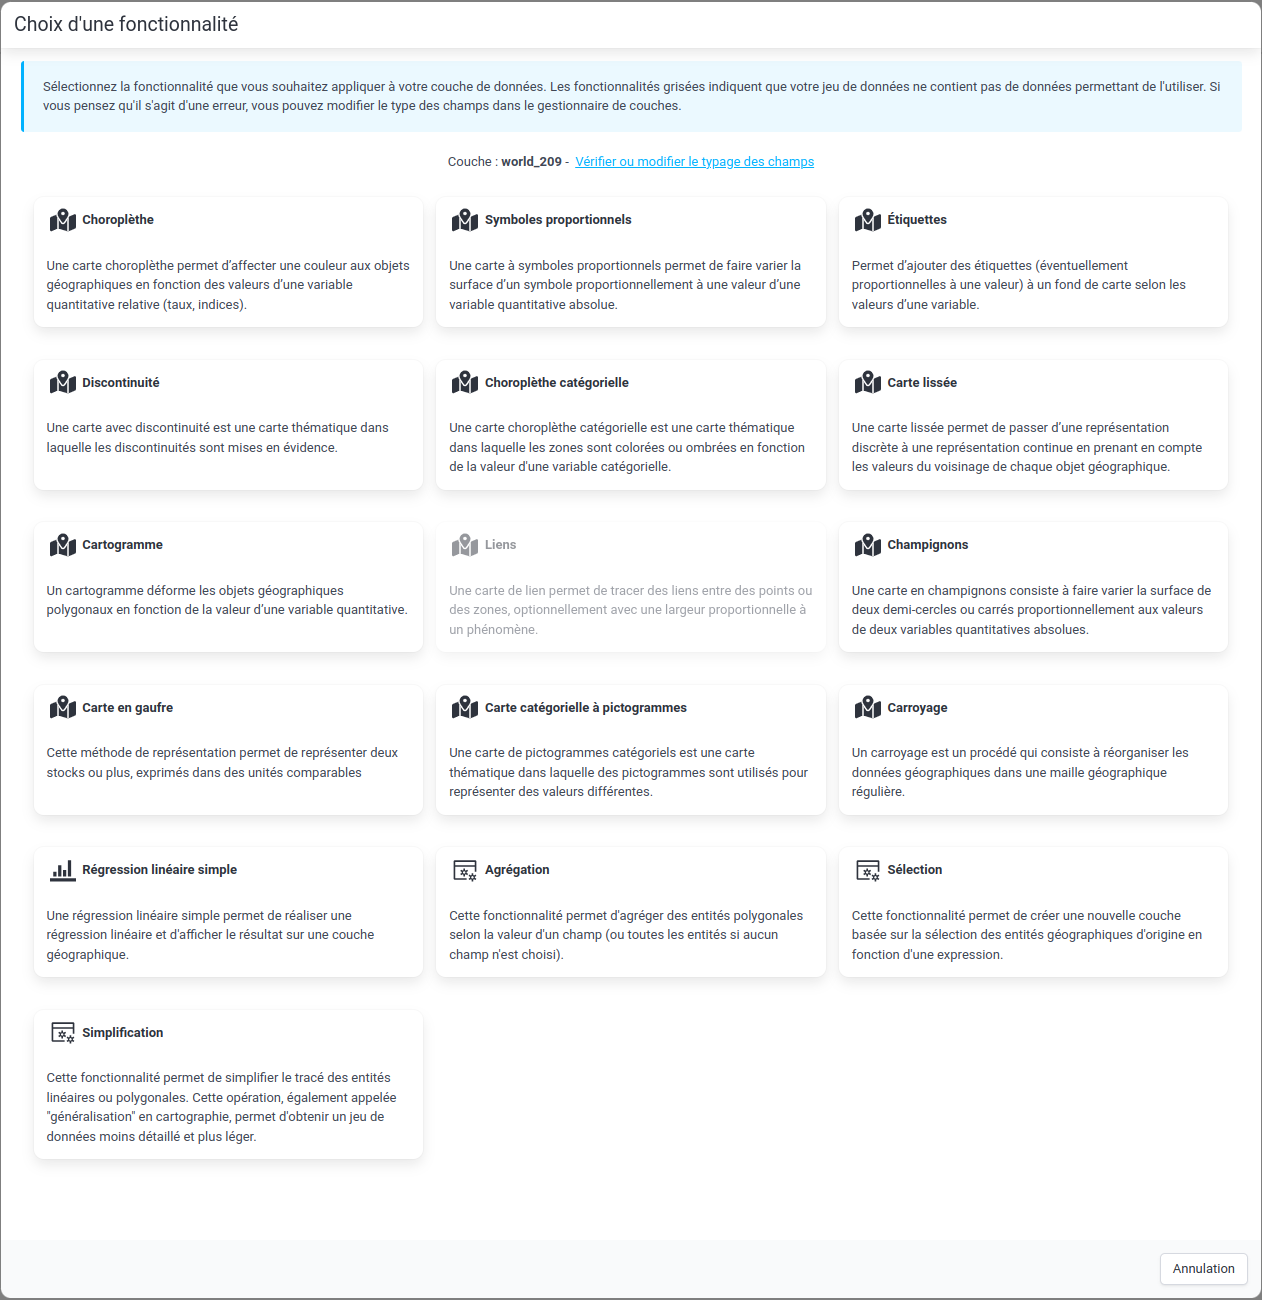
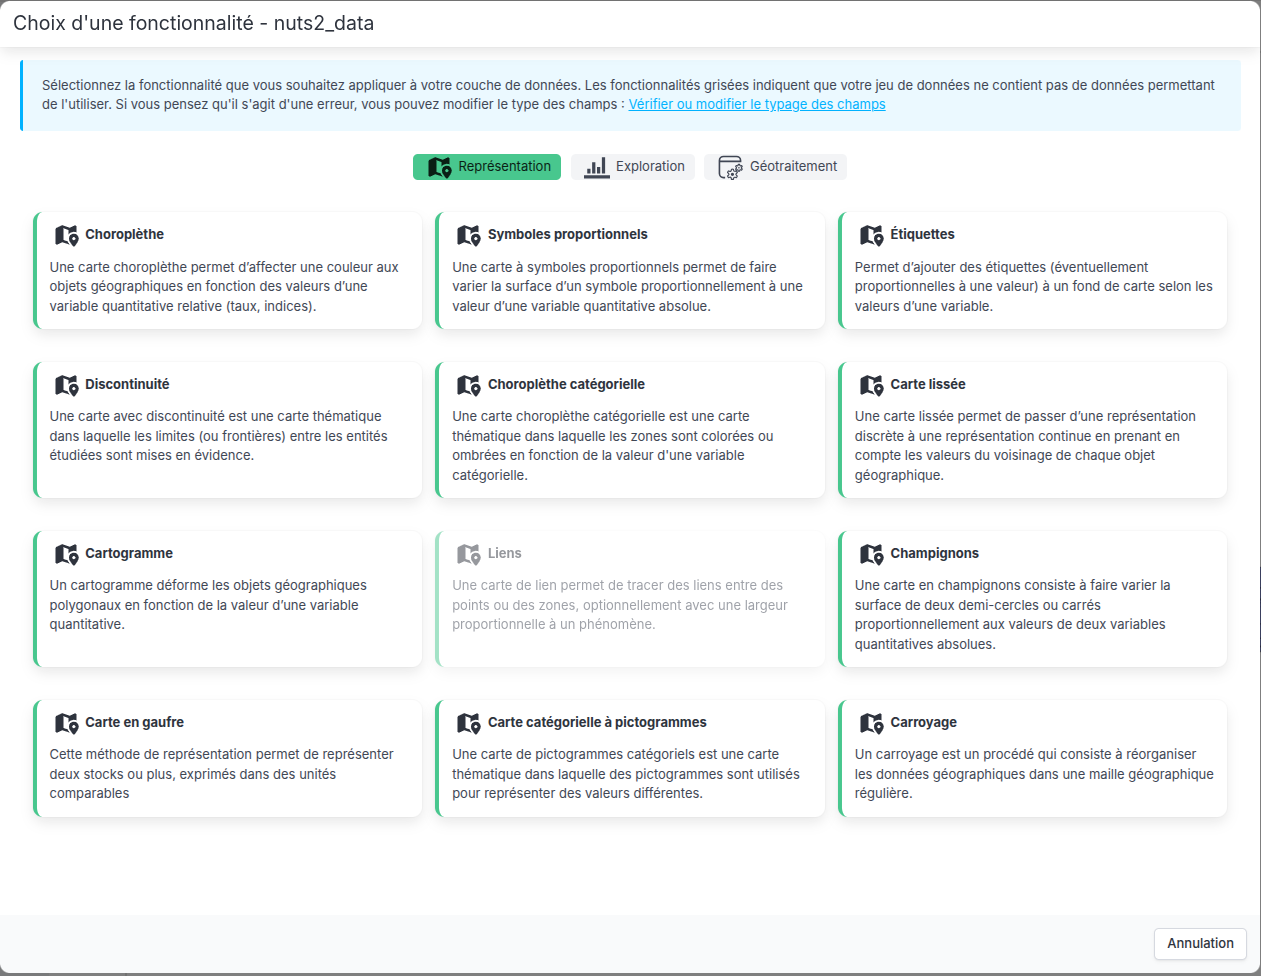
docs: add info about new classification of layer creation functionnalities

diff --git a/docs/en/layer-creation.md b/docs/en/layer-creation.md
@@ -6,12 +6,18 @@
     caption="Window for creating a new representation or a new layer"
 />
 
-It is possible to create a new representation from a layer of geographic data or from a data table.
+It is possible to create a new representation from a layer of geographic data or from a data table. All the options offered in this window create a new layer that will be added to the layer manager and to the map.
 
-The available features depend on the type of data (geographic or tabular) selected
+The functionalities offered are grouped into three categories:
+
+- **Representation**: classic cartographic representations, dedicated to data visualization.
+- **Exploration**: more advanced statistical representations, dedicated to data exploration, and therefore the cartographic results should be used with caution due to the exploratory nature of these representations.
+- **Geo-processing**: geographic data processing, useful for preparing data for cartography.
+
+The available functionalities depend on the type of data (geographic or tabular) selected
 and the type of variables contained (stock, ratio, etc.) in the data.
 
-The grayed-out features indicate that the option is not available for the data contained in the layer in question.
+The grayed-out functionalities indicate that the option is not available for the data contained in the layer in question.
 If you think the option should be available, check that the data is correctly typed (see [Field typing](./typing)).
 
 After choosing the type of representation, it is necessary to choose the various parameters

diff --git a/docs/layer-creation.md b/docs/layer-creation.md
@@ -7,7 +7,13 @@
     caption="Fenêtre de création d'une nouvelle représentation ou d'une nouvelle couche"
 />
 
-Il est possible de créer une nouvelle représentation à partir d'une couche de données géographiques ou d'un tableau de données.
+Il est possible de créer une nouvelle représentation à partir d'une couche de données géographiques ou d'un tableau de données. Toutes les options proposées dans cette fenêtre créent une nouvelle couche qui sera ajoutée au gestionnaire de couche et à la carte.
+
+Les fonctionnalités proposées sont regroupées en trois catégories :
+
+- **Représentation** : des représentations cartographiques classiques, dédiées à la visualisation des données.
+- **Exploration** : des représentations statistiques plus avancées, dédiés à l'exploration des données et donc les résultats cartographiques sont à utiliser avec précaution en raison de la nature exploratoire de ces représentations.
+- **Géo-traitement** : des traitements géographiques sur les données, utiles à la préparation des données pour la cartographie.
 
 Les fonctionnalités accessibles dépendent du type de données (géographiques ou tabulaires) sélectionné
 et du type de variables contenu (stock, ratio, etc.) dans les données.
